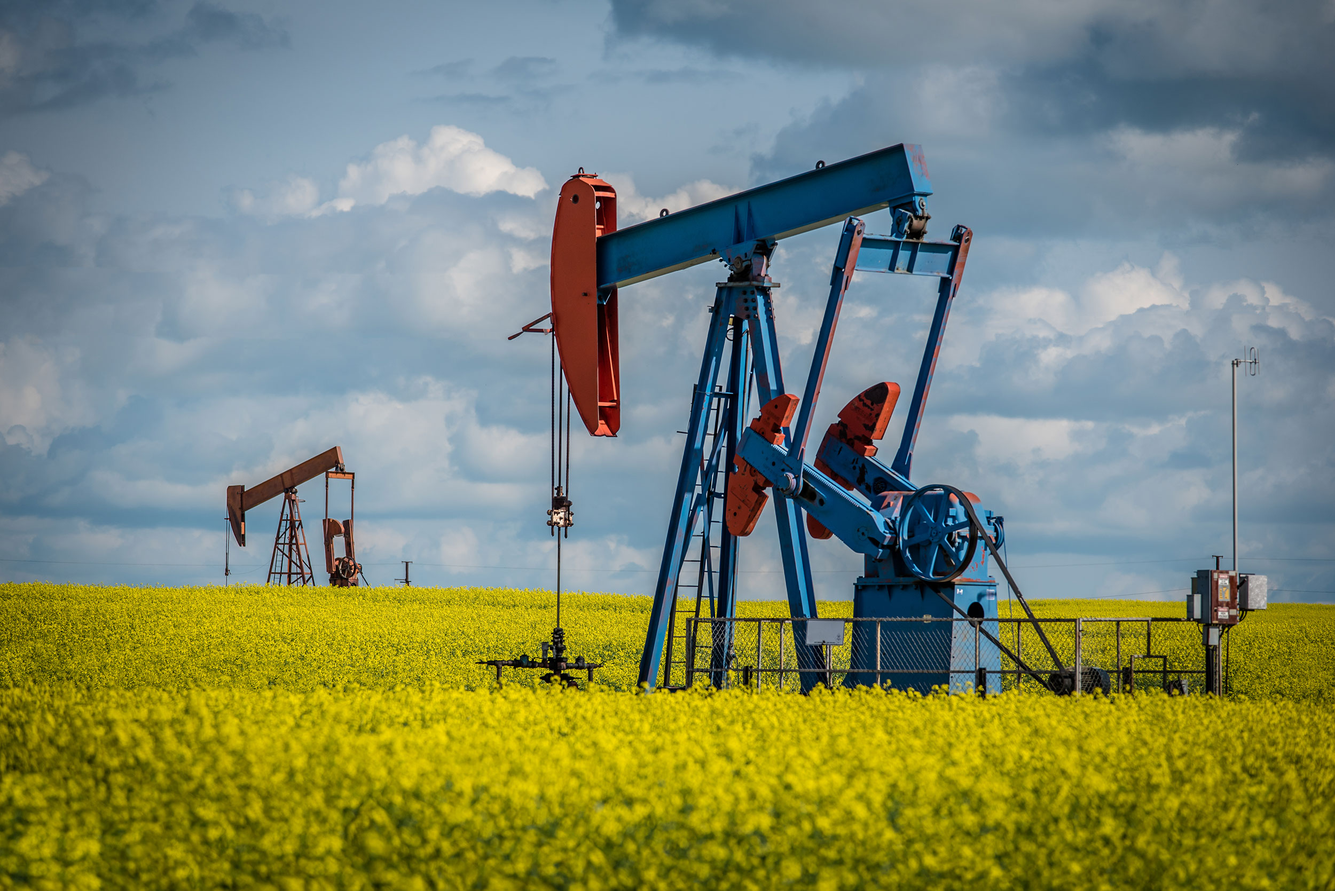
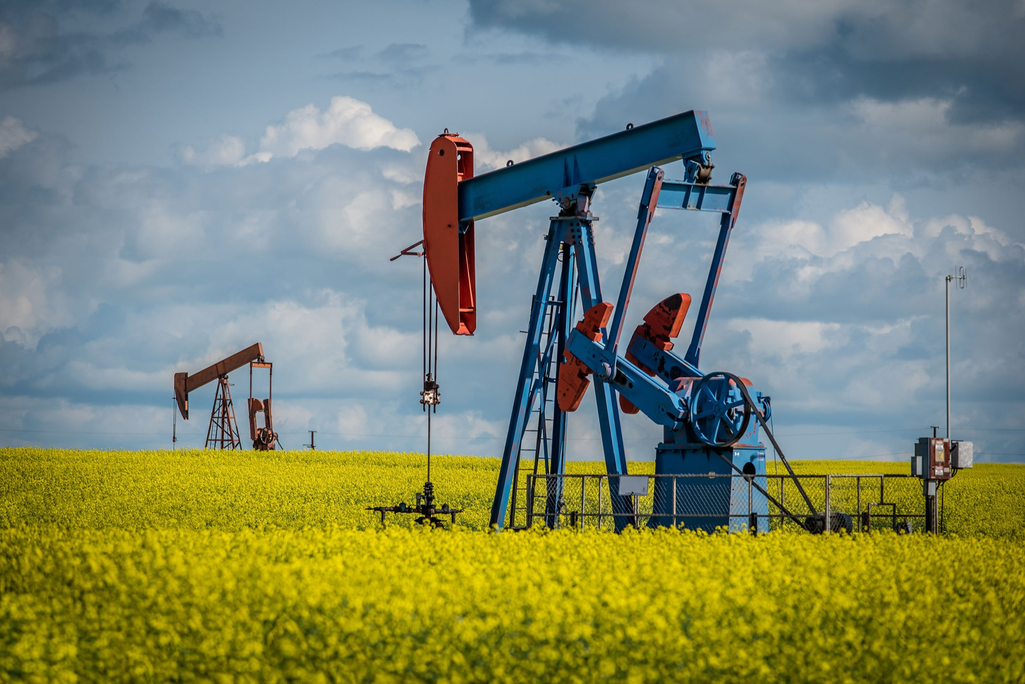
perf(maverick): compress news images and fix a11y
Image compression (total savings: ~3MB):
- news-pic-2: 2.0MB → 327KB (PNG→JPEG, 84% reduction)
- news-pic-3: 906KB → 310KB (66% reduction)
- news-pic-5: 729KB → 549KB (25% reduction)
- content/news-pic-1: 850KB → 407KB (52% reduction)

A11y fixes (ContactModal):
- Add tabindex="-1" to dialog element
- Add onkeydown handler alongside onclick

Closes: okr, 5t0

🤖 Generated with [Claude Code](https://claude.com/claude-code)

Changed region(s): [[0.2812, 0.687, 0.5938, 0.7806]]

diff --git a/packages/maverick/scripts/seed-all-content.ts b/packages/maverick/scripts/seed-all-content.ts
@@ -21,7 +21,7 @@ const seedData = {
 				date: 'July 29, 2025',
 				title: 'Maverick Metals launches Direct Metal Extraction Technology',
 				excerpt: 'Revolutionary DME platform enables recovery of critical metals from industrial wastewater streams, transforming waste into valuable resources for the energy transition.',
-				image: '/images/news-pic-2.png',
+				image: '/images/news-pic-2.jpg',
 				slug: 'maverick-metals-launches-dme-technology',
 				featured: true,
 				category: 'Product Launch'

diff --git a/packages/maverick/src/lib/components/ContactModal.svelte b/packages/maverick/src/lib/components/ContactModal.svelte
@@ -319,7 +319,9 @@
 				role="dialog"
 				aria-modal="true"
 				aria-labelledby="contact-modal-title"
+				tabindex="-1"
 				onclick={(e) => e.stopPropagation()}
+				onkeydown={(e) => e.stopPropagation()}
 			>
 				<!-- Close Button -->
 				<button
